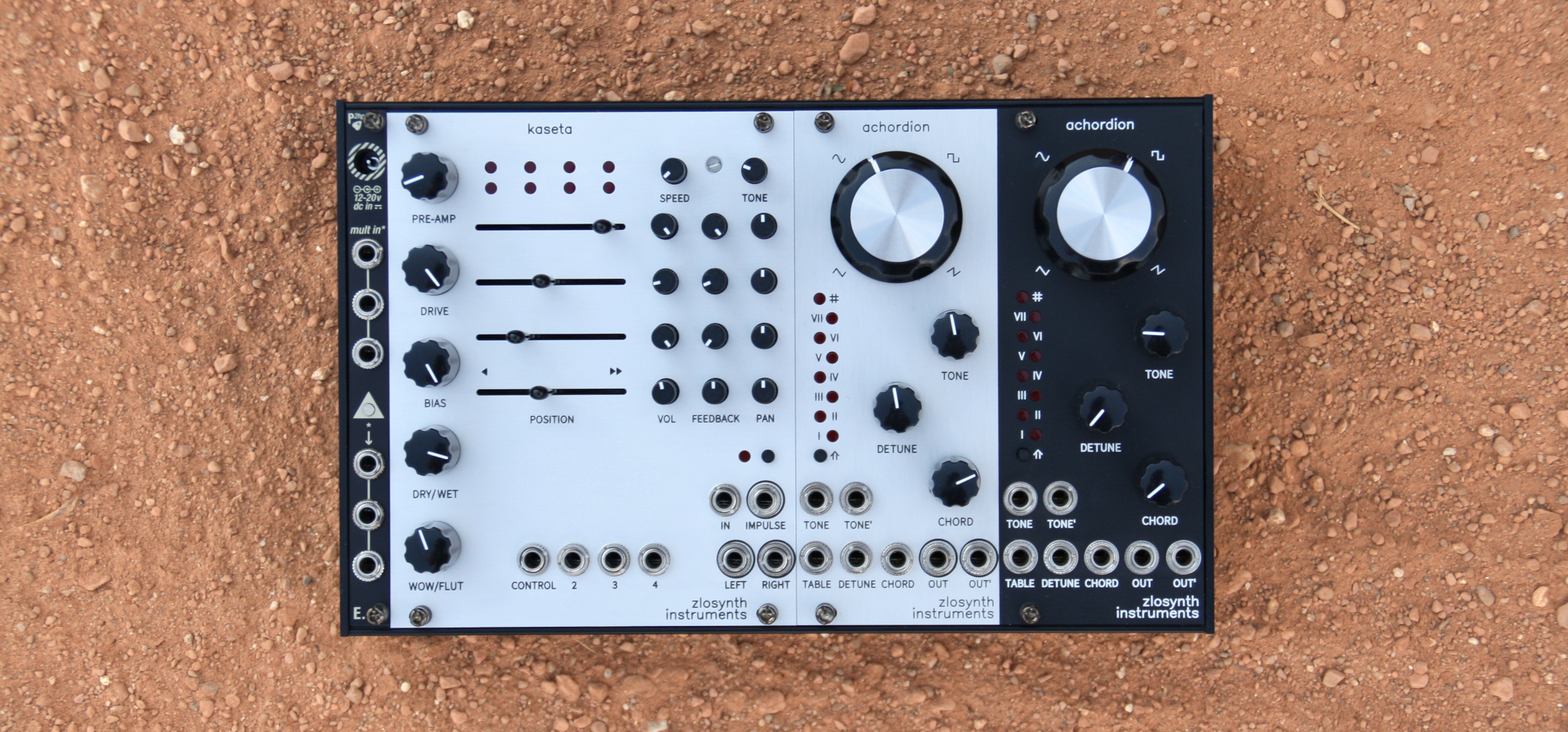
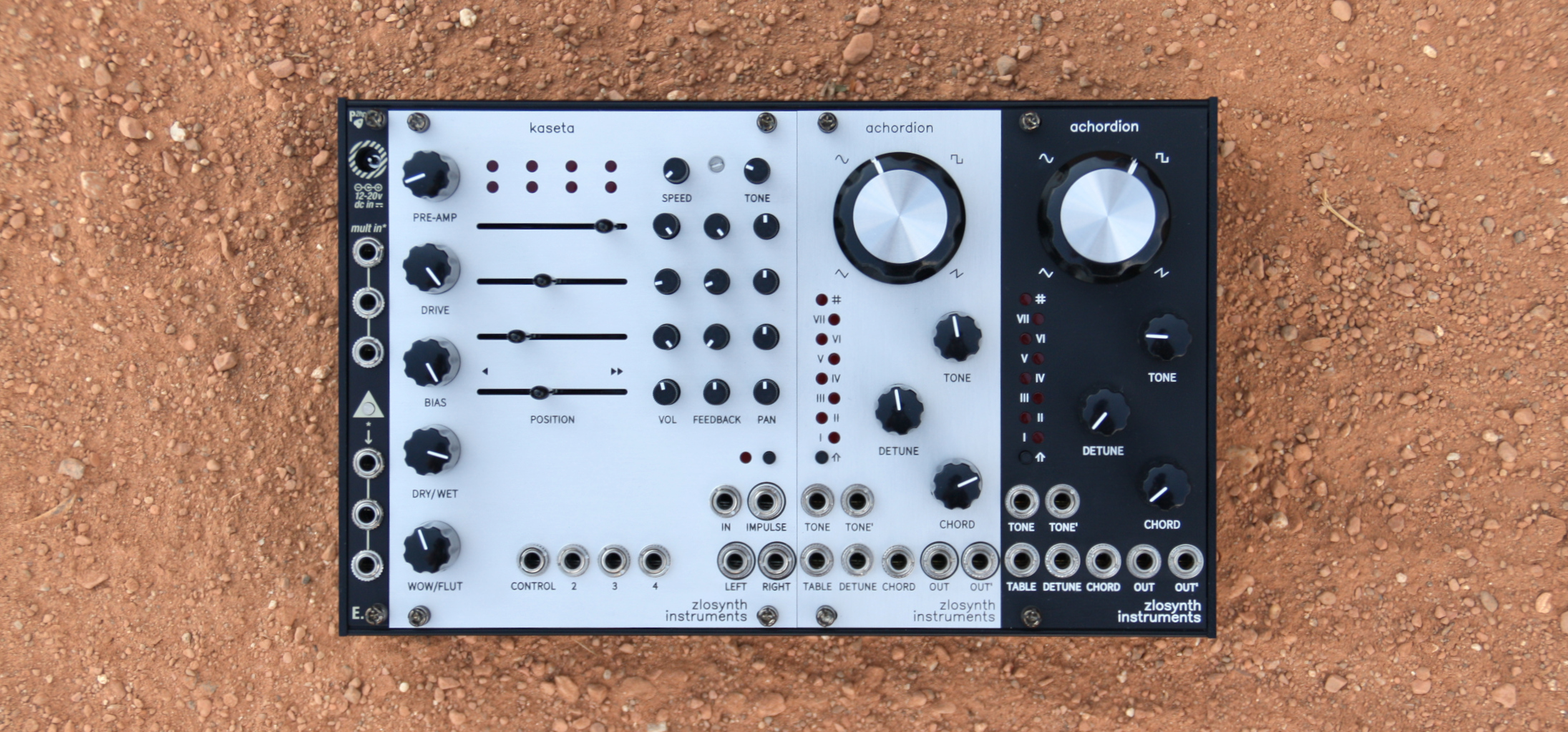
Scale module thumbnails with small displays

diff --git a/docs/styles.css b/docs/styles.css
@@ -186,7 +186,8 @@ section.modules .column {
 
 .module-thumbnail img {
   border-radius: 5px;
-  height: 560px;
+  max-height: 560px;
+  max-width: 90%;
 }
 
 .module-thumbnail h3 {
